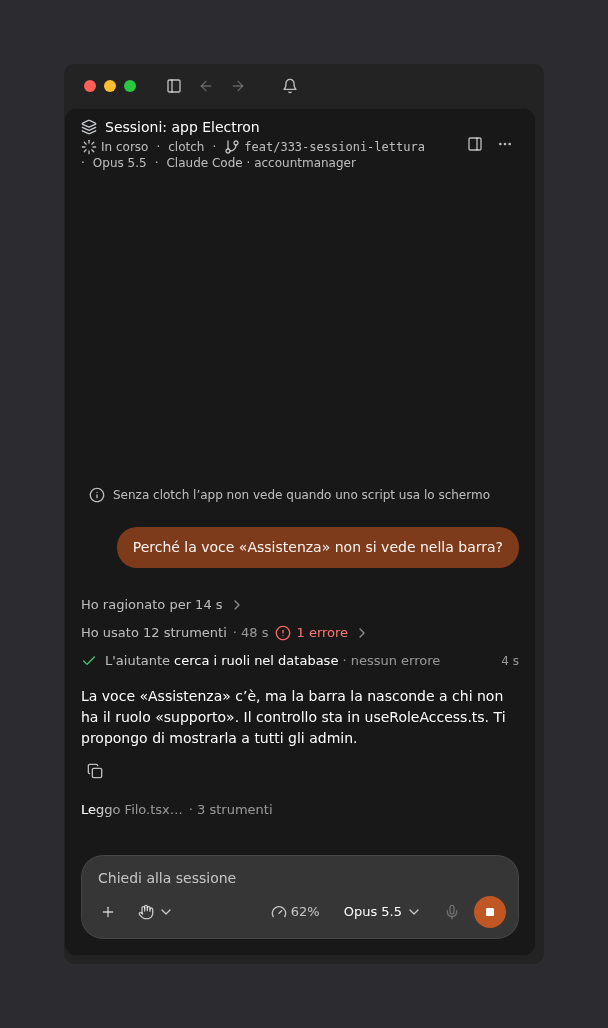
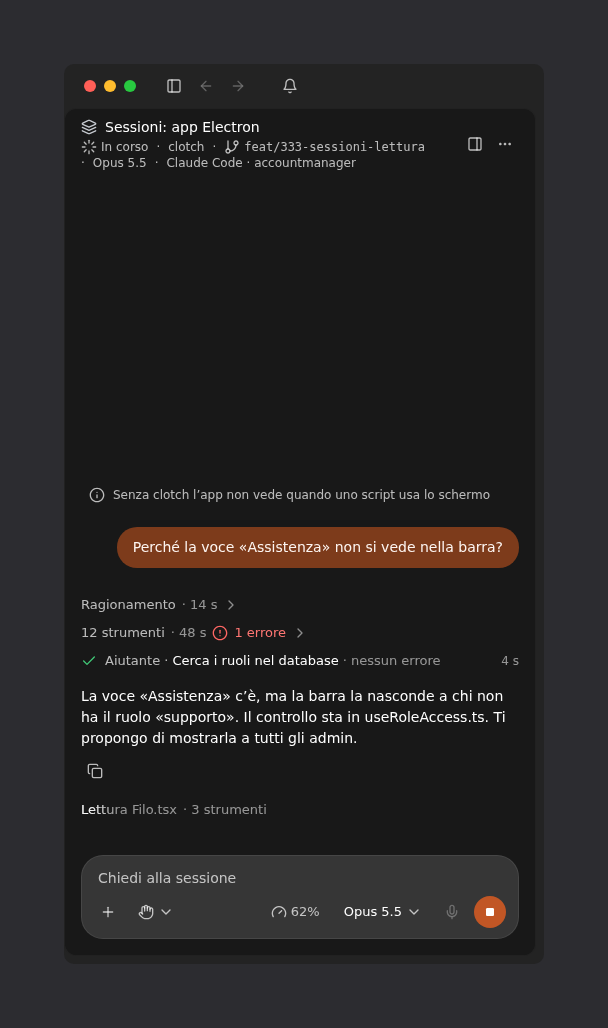
fix(filo): righe in corso senza puntini, come il disegno 251016bf (#876) (#1057)
Parità 12/12 sui frame 163-* in stile nominale; app/*.png rifatte.

diff --git a/sessioni/src/ui/chat/Compatto.tsx b/sessioni/src/ui/chat/Compatto.tsx
@@ -38,7 +38,7 @@ const Rientrato = ({ testo }: { testo: string }) => <div className="rientrato"><
 export function Ragionamento({ b, aperto: iniziale = false }: { b: Extract<Blocco, { tipo: "pensiero" }>; aperto?: boolean }) {
   const [aperto, setAperto] = useState(iniziale);
   const r = useRiserva();
-  if (b.inCorso) return <div className="compatto pensiero"><div className="riga-compatta in-corso"><Luccica testo="Ragionamento…" /></div></div>;
+  if (b.inCorso) return <div className="compatto pensiero"><div className="riga-compatta in-corso"><Luccica testo="Ragionamento" /></div></div>;
   return (
     <div className="compatto pensiero">
       <button type="button" className="riga-compatta" aria-expanded={aperto} onClick={() => conTransizione(() => setAperto(!aperto))}>
@@ -99,7 +99,7 @@ export function RigaStrumento({ b, aperta: iniziale = false }: { b: BloccoStrume
   );
 }
 
-/** «12 strumenti · 48 s», chiuso. Mentre una chiamata gira, la testata è la riga in corso: «Lettura Filo.tsx… · 3 strumenti». */
+/** «12 strumenti · 48 s», chiuso. Mentre una chiamata gira, la testata è la riga in corso: «Lettura Filo.tsx · 3 strumenti» (il riflesso dice già che gira: niente puntini). */
 /** `riga`: nelle scene di prova, la riga che parte aperta (163:87853). */
 export function Gruppo({ g, aperto: iniziale = false, riga }: { g: DatiGruppo; aperto?: boolean; riga?: number }) {
   const [aperto, setAperto] = useState(iniziale);
@@ -109,7 +109,7 @@ export function Gruppo({ g, aperto: iniziale = false, riga }: { g: DatiGruppo; a
     <div className="compatto gruppo-strumenti">
       <button type="button" className={ora ? "riga-compatta in-corso" : "riga-compatta"} aria-expanded={aperto} onClick={() => conTransizione(() => setAperto(!aperto))}>
         {ora ? (
-          <Luccica testo={`${r.testo([ora.verbo, ora.oggetto].filter(Boolean).join(" "))}…`}>
+          <Luccica testo={r.testo([ora.verbo, ora.oggetto].filter(Boolean).join(" "))}>
             {n > 1 && <>{" "}<span className="conto">· {quanti(n, "strumento", "strumenti")}</span></>}
           </Luccica>
         ) : (
@@ -137,7 +137,7 @@ function RigaAiutante({ a, aperto: iniziale = false }: { a: Aiutante; aperto?: b
   if (!a.finito) return (
     <div className="riga-strumento"><div className="riga in-corso">
       <span className="segno-aiutante"><Icona nome="figlia" colore="terziaria" /></span>
-      <span className="azione"><span className="verbo">Aiutante ·</span>{" "}<Luccica testo={`${r.testo(a.nome)}…`} /></span>
+      <span className="azione"><span className="verbo">Aiutante ·</span>{" "}<Luccica testo={r.testo(a.nome)} /></span>
       {a.durata != null && <span className="durata">{tempo(a.durata)}</span>}
     </div></div>
   );
